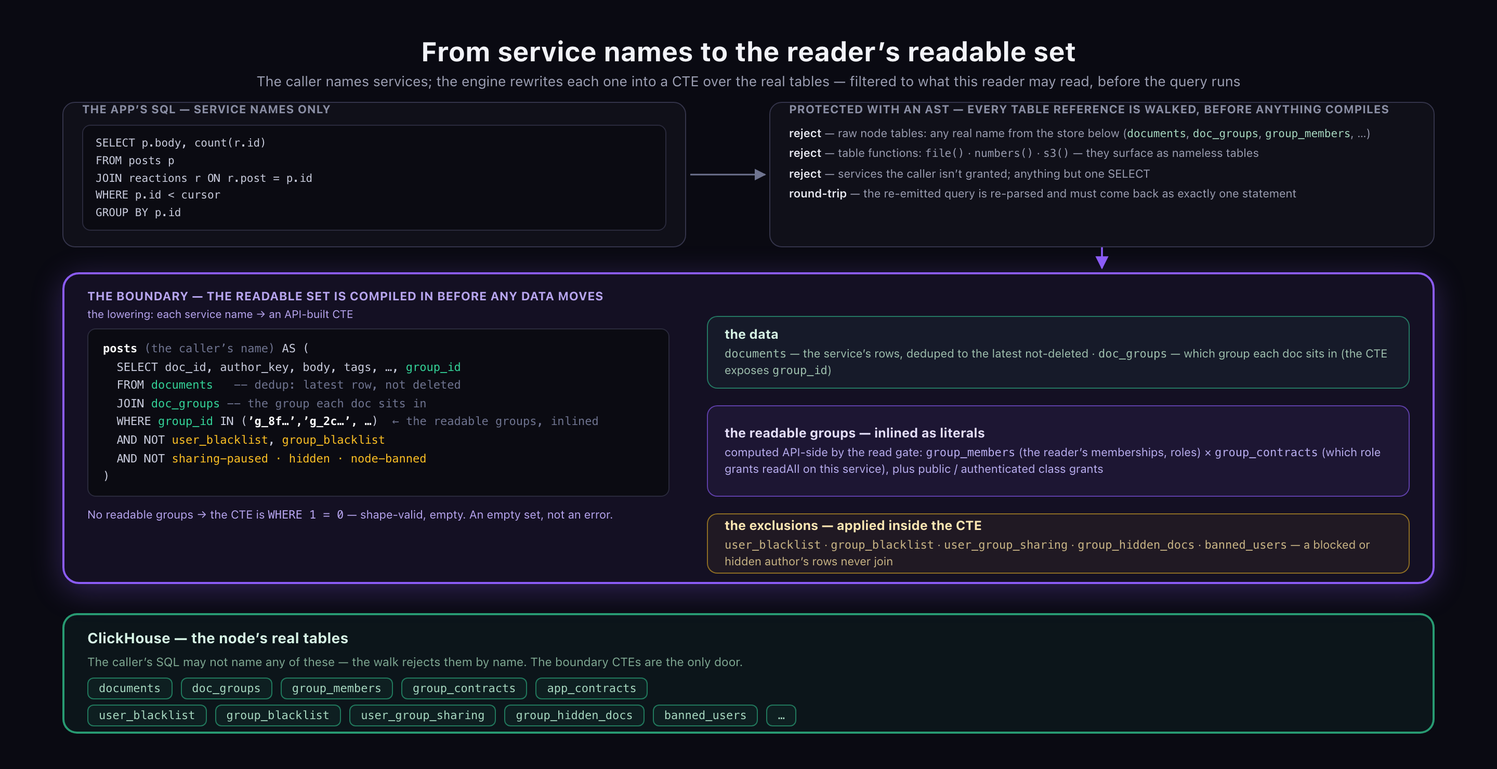
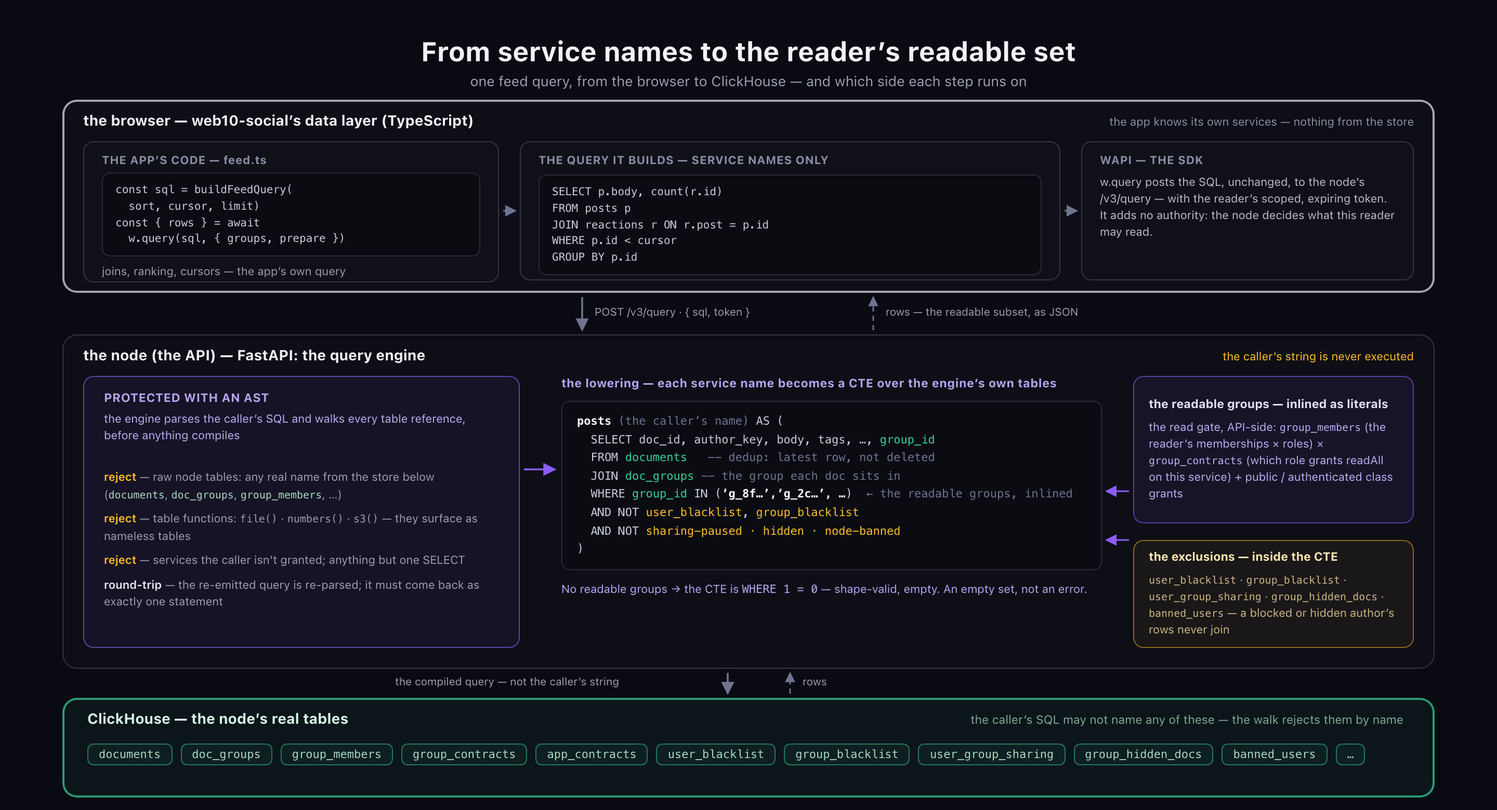
docs(research): figure B re-shot — the AST sits on the API side, the app→SDK→API chain is visible, 'THE BOUNDARY' is out (show, don't tell)

Changed region(s): [[0.0312, 0.0311, 0.9688, 0.9946], [0.9375, 0.8392, 0.9688, 0.8703]]

diff --git a/research/second-draft/figs/fig-query-engine.html b/research/second-draft/figs/fig-query-engine.html
@@ -1,13 +1,14 @@
 <!doctype html>
 <!--
-  Source for fig-query-engine.png (Figure B, shot 3: "the lowering").
-  How-it-works level of the real machine (api/app/v3/services/safe_query.py):
-  caller SQL (service names only) -> the AST walk and its real rejections ->
-  the lowering: each service name becomes an API-built boundary CTE over the
-  real ClickHouse tables (documents, doc_groups; readable group IDs inlined
-  from the read gate group_members x group_contracts; five exclusion tables)
-  -> ClickHouse, whose real table names the caller may never reference.
-  No pitch lines; the claim is carried by the paper's caption.
+  Source for fig-query-engine.png (Figure B, shot 4: "where each step runs").
+  One feed query, from the browser to ClickHouse — and which side each step
+  runs on. Accuracy note (the shot-3 miss this fixes): the AST work is
+  API-side. The app's TypeScript builds the query (feed.ts: buildFeedQuery),
+  the SDK's w.query posts it, unchanged, to POST /v3/query with the reader's
+  scoped token (sdk/src/v3.ts); the node's engine (api/app/v3/services/
+  safe_query.py — ClickHouse's own parser) does the walk, the rejections,
+  the lowering to boundary CTEs, and the round-trip. The caller's string is
+  never executed. No pitch lines; the claim is the caption's.
   Render with ./capture.mjs fig-query-engine.
 -->
 <html>
@@ -16,92 +17,114 @@
 <style>
   * { margin:0; padding:0; box-sizing:border-box; }
   html,body { background:#0a0a12; }
-  body { width:1440px; height:740px; position:relative; overflow:hidden;
+  body { width:1440px; height:780px; position:relative; overflow:hidden;
     font-family:-apple-system,"SF Pro Text","Helvetica Neue",Arial,sans-serif;
     -webkit-font-smoothing:antialiased; }
   .title { position:absolute; top:34px; width:100%; text-align:center;
     font-size:26px; font-weight:700; color:#f2f3f8; }
   .subtitle { position:absolute; top:70px; width:100%; text-align:center;
     font-size:13.5px; color:#9c9fb3; }
-  .box { position:absolute; border-radius:12px; background:#101019;
-    border:1.5px solid #34344a; padding:0 18px; }
-  .boxlabel { position:absolute; font-size:11px; font-weight:700;
+  .frame { position:absolute; border-radius:14px; background:#0e0e17; }
+  .fhead { position:absolute; font-size:14px; font-weight:700; }
+  .fanno { position:absolute; font-size:11px; }
+  .lbl { position:absolute; font-size:11px; font-weight:700;
     letter-spacing:.4px; color:#8b8fa5; }
-  .sql { font-family:"SF Mono",Menlo,Consolas,monospace; font-size:10.5px;
+  .mono { position:absolute; font-family:"SF Mono",Menlo,Consolas,monospace; font-size:10.5px;
     color:#c9ccdd; background:#0b0b12; border:1px solid #2a2a3c; border-radius:8px;
-    padding:8px 12px; line-height:1.6; white-space:pre; }
-  .check { font-size:11px; color:#9a9db1; line-height:1.4; }
+    padding:8px 12px; line-height:1.5; white-space:pre; }
+  .note { position:absolute; font-size:11px; color:#9a9db1; line-height:1.45; }
+  .check { position:absolute; font-size:11px; color:#9a9db1; line-height:1.5; }
   .check .lead { color:#e8e9f2; font-weight:600; }
-  /* violet lowering band */
-  .violet { position:absolute; left:60px; top:262px; width:1320px; height:300px;
-    border-radius:16px; background:rgba(139,92,246,.08);
-    border:2px solid #8b5cf6; box-shadow:0 6px 30px rgba(139,92,246,.30); }
-  .vlabel { position:absolute; top:278px; left:84px; font-size:11.5px;
-    font-weight:700; letter-spacing:.3px; color:#b7a5ef; }
-  .cte { position:absolute; left:84px; top:316px; width:560px; height:162px;
+  .check .amber { color:#fbbf24; font-weight:600; }
+  /* violet enforcement family */
+  .vpart { position:absolute; border-radius:10px;
+    background:rgba(139,92,246,.07); border:1.5px solid rgba(139,92,246,.65); }
+  .vlabel { position:absolute; font-size:11.5px; font-weight:700;
+    letter-spacing:.3px; color:#b7a5ef; }
+  .cte { position:absolute; width:520px;
     font-family:"SF Mono",Menlo,Consolas,monospace; font-size:11px;
     line-height:1.6; color:#c9ccdd; background:#0b0b12;
     border:1px solid #2a2a3c; border-radius:8px; padding:10px 14px;
     white-space:pre; overflow:hidden; }
   .cte .g { color:#34d399; } .cte .a { color:#fbbf24; }
   .cte .w { color:#ffffff; font-weight:600; } .cte .c { color:#6f7490; }
-  .ctenote { position:absolute; top:488px; left:84px; width:560px;
-    font-size:11px; color:#b7a5ef; line-height:1.45; }
-  .card { position:absolute; left:680px; width:676px; border-radius:10px;
-    padding:0 16px; display:flex; flex-direction:column; justify-content:center; }
-  .card .t { font-size:12.5px; font-weight:700; }
-  .card .s { font-size:11px; margin-top:4px; line-height:1.45; }
-  .card .mono { font-family:"SF Mono",Menlo,Consolas,monospace; }
-  .card.green { background:rgba(52,211,153,.05); border:1.5px solid rgba(52,211,153,.5); }
-  .card.green .t { color:#d7f5e6; } .card.green .s { color:#9fc0ae; }
+  .card { position:absolute; width:270px; border-radius:10px;
+    padding:0 14px; display:flex; flex-direction:column; justify-content:center; }
+  .card .t { font-size:11.5px; font-weight:700; line-height:1.35; }
+  .card .s { font-size:11px; margin-top:6px; line-height:1.45; }
+  .card .mono2 { font-family:"SF Mono",Menlo,Consolas,monospace; font-size:10px; }
   .card.purple { background:rgba(139,92,246,.08); border:1.5px solid rgba(139,92,246,.6); }
   .card.purple .t { color:#e6e0fb; } .card.purple .s { color:#b9aef0; }
   .card.amber { background:rgba(251,191,36,.05); border:1.5px solid rgba(251,191,36,.5); }
   .card.amber .t { color:#fde7b3; } .card.amber .s { color:#c9b585; }
   /* clickhouse strip */
-  .ch { position:absolute; left:60px; top:590px; width:1320px; height:116px;
+  .ch { position:absolute; left:60px; top:672px; width:1320px; height:96px;
     border-radius:14px; background:rgba(52,211,153,.06);
     border:2px solid rgba(52,211,153,.7); }
-  .chlabel { position:absolute; top:606px; left:84px; font-size:14px;
+  .chlabel { position:absolute; top:684px; left:84px; font-size:14px;
     font-weight:700; color:#d7f5e6; }
-  .chnote { position:absolute; top:630px; left:84px; font-size:11.5px;
-    color:#7fa892; }
-  .chrow { position:absolute; left:84px; display:flex; gap:8px; }
+  .chnote { position:absolute; top:686px; left:740px; width:610px; text-align:right;
+    font-size:11.5px; color:#7fa892; }
   .chip { font-family:"SF Mono",Menlo,Consolas,monospace; font-size:11px;
     color:#a7d8c0; background:rgba(52,211,153,.05);
     border:1px solid rgba(52,211,153,.5); border-radius:6px; padding:3px 10px; }
-  svg.abs { position:absolute; top:0; left:0; width:1440px; height:740px;
+  .wlabel { position:absolute; font-size:10.5px; color:#9a9db1; }
+  svg.abs { position:absolute; top:0; left:0; width:1440px; height:780px;
     pointer-events:none; }
 </style>
 </head>
 <body>
   <div class="title">From service names to the reader&rsquo;s readable set</div>
-  <div class="subtitle">The caller names services; the engine rewrites each one into a CTE over the real tables &mdash; filtered to what this reader may read, before the query runs</div>
+  <div class="subtitle">one feed query, from the browser to ClickHouse &mdash; and which side each step runs on</div>
 
-  <!-- tier 1: the caller's SQL + the walk -->
-  <div class="box" style="left:60px; top:98px; width:600px; height:140px;">
-    <div style="font-size:11px; font-weight:700; letter-spacing:.4px; color:#8b8fa5;">THE APP&rsquo;S SQL &mdash; SERVICE NAMES ONLY</div>
-    <div class="sql" style="margin-top:8px;">SELECT p.body, count(r.id)
+  <!-- tier 1: the browser (app code + SDK) -->
+  <div class="frame" style="left:60px; top:96px; width:1320px; height:186px; border:2px solid rgba(201,204,218,.8);"></div>
+  <div class="fhead" style="left:80px; top:108px; color:#f2f3f8;">the browser &mdash; web10-social&rsquo;s data layer (TypeScript)</div>
+  <div class="fanno" style="left:1040px; top:111px; width:320px; text-align:right; color:#8b8fa5;">the app knows its own services &mdash; nothing from the store</div>
+
+  <div style="position:absolute; left:80px; top:136px; width:400px; height:136px; border-radius:10px; background:#101019; border:1px solid #34344a;"></div>
+  <div class="lbl" style="left:98px; top:148px;">THE APP&rsquo;S CODE &mdash; feed.ts</div>
+  <div class="mono" style="left:98px; top:166px; width:364px;">const sql = buildFeedQuery(
+  sort, cursor, limit)
+const { rows } = await
+  w.query(sql, { groups, prepare })</div>
+  <div class="note" style="left:98px; top:254px; width:364px;">joins, ranking, cursors &mdash; the app&rsquo;s own query</div>
+
+  <div style="position:absolute; left:500px; top:136px; width:520px; height:134px; border-radius:10px; background:#101019; border:1px solid #34344a;"></div>
+  <div class="lbl" style="left:518px; top:148px;">THE QUERY IT BUILDS &mdash; SERVICE NAMES ONLY</div>
+  <div class="mono" style="left:518px; top:168px; width:484px;">SELECT p.body, count(r.id)
 FROM posts p
 JOIN reactions r ON r.post = p.id
 WHERE p.id &lt; cursor
 GROUP BY p.id</div>
-  </div>
-  <div class="box" style="left:740px; top:98px; width:640px; height:140px;">
-    <div style="font-size:11px; font-weight:700; letter-spacing:.4px; color:#8b8fa5;">PROTECTED WITH AN AST &mdash; EVERY TABLE REFERENCE IS WALKED, BEFORE ANYTHING COMPILES</div>
-    <div class="check" style="margin-top:9px;">
-      <div class="check" style="margin-top:4px;"><span class="lead">reject</span> &mdash; raw node tables: any real name from the store below (<span class="mono" style="font-family:'SF Mono',Menlo,monospace; font-size:10.5px; color:#a7d8c0;">documents</span>, <span class="mono" style="font-family:'SF Mono',Menlo,monospace; font-size:10.5px; color:#a7d8c0;">doc_groups</span>, <span class="mono" style="font-family:'SF Mono',Menlo,monospace; font-size:10.5px; color:#a7d8c0;">group_members</span>, &hellip;)</div>
-      <div class="check" style="margin-top:4px;"><span class="lead">reject</span> &mdash; table functions: <span style="font-family:'SF Mono',Menlo,monospace; font-size:10.5px;">file()</span> &middot; <span style="font-family:'SF Mono',Menlo,monospace; font-size:10.5px;">numbers()</span> &middot; <span style="font-family:'SF Mono',Menlo,monospace; font-size:10.5px;">s3()</span> &mdash; they surface as nameless tables</div>
-      <div class="check" style="margin-top:4px;"><span class="lead">reject</span> &mdash; services the caller isn&rsquo;t granted; anything but one SELECT</div>
-      <div class="check" style="margin-top:4px;"><span class="lead">round-trip</span> &mdash; the re-emitted query is re-parsed and must come back as exactly one statement</div>
-    </div>
+
+  <div style="position:absolute; left:1040px; top:136px; width:320px; height:134px; border-radius:10px; background:#101019; border:1px solid #34344a;"></div>
+  <div class="lbl" style="left:1058px; top:148px;">WAPI &mdash; THE SDK</div>
+  <div class="note" style="left:1058px; top:168px; width:284px; color:#b9bcc9;">w.query posts the SQL, unchanged, to the node&rsquo;s /v3/query &mdash; with the reader&rsquo;s scoped, expiring token. It adds no authority: the node decides what this reader may read.</div>
+
+  <!-- wires: browser -> node -->
+  <div class="wlabel" style="left:572px; top:294px;">POST /v3/query &middot; { sql, token }</div>
+  <div class="wlabel" style="left:852px; top:294px;">rows &mdash; the readable subset, as JSON</div>
+
+  <!-- tier 2: the node (the API) -->
+  <div class="frame" style="left:60px; top:322px; width:1320px; height:322px; border:1.5px solid #34344a;"></div>
+  <div class="fhead" style="left:80px; top:334px; color:#f2f3f8;">the node (the API) &mdash; FastAPI: the query engine</div>
+  <div class="fanno" style="left:920px; top:337px; width:440px; text-align:right; color:#fbbf24;">the caller&rsquo;s string is never executed</div>
+
+  <!-- the AST walk (violet enforcement family) -->
+  <div class="vpart" style="left:80px; top:362px; width:420px; height:262px;"></div>
+  <div class="vlabel" style="left:100px; top:376px;">PROTECTED WITH AN AST</div>
+  <div class="note" style="left:100px; top:396px; width:380px; color:#b9aef0;">the engine parses the caller&rsquo;s SQL and walks every table reference, before anything compiles</div>
+  <div class="check" style="left:100px; top:452px; width:380px;">
+    <div><span class="amber">reject</span> &mdash; raw node tables: any real name from the store below (<span class="mono2" style="font-family:'SF Mono',Menlo,monospace; font-size:10px; color:#a7d8c0;">documents</span>, <span style="font-family:'SF Mono',Menlo,monospace; font-size:10px; color:#a7d8c0;">doc_groups</span>, <span style="font-family:'SF Mono',Menlo,monospace; font-size:10px; color:#a7d8c0;">group_members</span>, &hellip;)</div>
+    <div style="margin-top:7px;"><span class="amber">reject</span> &mdash; table functions: <span style="font-family:'SF Mono',Menlo,monospace; font-size:10px;">file()</span> &middot; <span style="font-family:'SF Mono',Menlo,monospace; font-size:10px;">numbers()</span> &middot; <span style="font-family:'SF Mono',Menlo,monospace; font-size:10px;">s3()</span> &mdash; they surface as nameless tables</div>
+    <div style="margin-top:7px;"><span class="amber">reject</span> &mdash; services the caller isn&rsquo;t granted; anything but one SELECT</div>
+    <div style="margin-top:7px;"><span class="lead">round-trip</span> &mdash; the re-emitted query is re-parsed; it must come back as exactly one statement</div>
   </div>
 
-  <!-- tier 2: the lowering -->
-  <div class="violet"></div>
-  <div class="vlabel">THE BOUNDARY &mdash; THE READABLE SET IS COMPILED IN BEFORE ANY DATA MOVES</div>
-  <div style="position:absolute; top:296px; left:84px; font-size:10.5px; color:#b7a5ef;">the lowering: each service name &rarr; an API-built CTE</div>
-  <div class="cte"><span class="w">posts</span> <span class="c">(the caller&rsquo;s name)</span> AS (
+  <!-- the lowering -->
+  <div class="vlabel" style="left:540px; top:362px; width:520px;">the lowering &mdash; each service name becomes a CTE over the engine&rsquo;s own tables</div>
+  <div class="cte" style="left:540px; top:386px;"><span class="w">posts</span> <span class="c">(the caller&rsquo;s name)</span> AS (
   <span style="color:#c9ccdd;">SELECT</span> doc_id, author_key, body, tags, &hellip;, <span class="g">group_id</span>
   <span style="color:#c9ccdd;">FROM</span> <span class="g">documents</span>   <span class="c">-- dedup: latest row, not deleted</span>
   <span style="color:#c9ccdd;">JOIN</span> <span class="g">doc_groups</span> <span class="c">-- the group each doc sits in</span>
@@ -109,29 +132,24 @@ GROUP BY p.id</div>
   <span style="color:#c9ccdd;">AND NOT</span> <span class="a">user_blacklist</span><span style="color:#c9ccdd;">, </span><span class="a">group_blacklist</span>
   <span style="color:#c9ccdd;">AND NOT</span> <span class="a">sharing-paused &middot; hidden &middot; node-banned</span>
 <span style="color:#c9ccdd;">)</span></div>
-  <div class="ctenote">No readable groups &rarr; the CTE is <span style="font-family:'SF Mono',Menlo,monospace;">WHERE 1 = 0</span> &mdash; shape-valid, empty. An empty set, not an error.</div>
+  <div class="note" style="left:540px; top:560px; width:520px; color:#b7a5ef;">No readable groups &rarr; the CTE is <span style="font-family:'SF Mono',Menlo,monospace;">WHERE 1 = 0</span> &mdash; shape-valid, empty. An empty set, not an error.</div>
 
-  <div class="card green" style="top:304px; height:70px;">
-    <div class="t">the data</div>
-    <div class="s"><span class="mono">documents</span> &mdash; the service&rsquo;s rows, deduped to the latest not-deleted &middot; <span class="mono">doc_groups</span> &mdash; which group each doc sits in (the CTE exposes <span class="mono">group_id</span>)</div>
-  </div>
-  <div class="card purple" style="top:390px; height:88px;">
+  <!-- the two sources the CTE inlines -->
+  <div class="card purple" style="left:1090px; top:362px; height:142px;">
     <div class="t">the readable groups &mdash; inlined as literals</div>
-    <div class="s">computed API-side by the read gate: <span class="mono">group_members</span> (the reader&rsquo;s memberships, roles) &times; <span class="mono">group_contracts</span> (which role grants readAll on this service), plus public / authenticated class grants</div>
+    <div class="s">the read gate, API-side: <span class="mono2">group_members</span> (the reader&rsquo;s memberships &times; roles) &times; <span class="mono2">group_contracts</span> (which role grants readAll on this service) + public / authenticated class grants</div>
   </div>
-  <div class="card amber" style="top:494px; height:58px;">
-    <div class="t">the exclusions &mdash; applied inside the CTE</div>
-    <div class="s"><span class="mono">user_blacklist</span> &middot; <span class="mono">group_blacklist</span> &middot; <span class="mono">user_group_sharing</span> &middot; <span class="mono">group_hidden_docs</span> &middot; <span class="mono">banned_users</span> &mdash; a blocked or hidden author&rsquo;s rows never join</div>
+  <div class="card amber" style="left:1090px; top:520px; height:104px;">
+    <div class="t">the exclusions &mdash; inside the CTE</div>
+    <div class="s"><span class="mono2">user_blacklist</span> &middot; <span class="mono2">group_blacklist</span> &middot; <span class="mono2">user_group_sharing</span> &middot; <span class="mono2">group_hidden_docs</span> &middot; <span class="mono2">banned_users</span> &mdash; a blocked or hidden author&rsquo;s rows never join</div>
   </div>
 
   <!-- tier 3: clickhouse -->
   <div class="ch"></div>
   <div class="chlabel">ClickHouse &mdash; the node&rsquo;s real tables</div>
-  <div class="chnote">The caller&rsquo;s SQL may not name any of these &mdash; the walk rejects them by name. The boundary CTEs are the only door.</div>
-  <div class="chrow" style="top:652px;">
+  <div class="chnote">the caller&rsquo;s SQL may not name any of these &mdash; the walk rejects them by name</div>
+  <div style="position:absolute; left:84px; top:716px; display:flex; gap:8px;">
     <div class="chip">documents</div><div class="chip">doc_groups</div><div class="chip">group_members</div><div class="chip">group_contracts</div><div class="chip">app_contracts</div>
-  </div>
-  <div class="chrow" style="top:678px;">
     <div class="chip">user_blacklist</div><div class="chip">group_blacklist</div><div class="chip">user_group_sharing</div><div class="chip">group_hidden_docs</div><div class="chip">banned_users</div><div class="chip">&hellip;</div>
   </div>
 
@@ -141,12 +159,29 @@ GROUP BY p.id</div>
       <marker id="ar" viewBox="0 0 10 10" refX="9" refY="5" markerWidth="7" markerHeight="7" orient="auto-start-reverse">
         <path d="M0,0 L10,5 L0,10 z" fill="#6f7490"/>
       </marker>
+      <marker id="arup" viewBox="0 0 10 10" refX="9" refY="5" markerWidth="7" markerHeight="7" orient="auto-start-reverse">
+        <path d="M0,0 L10,5 L0,10 z" fill="#6f7490"/>
+      </marker>
       <marker id="arv" viewBox="0 0 10 10" refX="9" refY="5" markerWidth="7" markerHeight="7" orient="auto-start-reverse">
         <path d="M0,0 L10,5 L0,10 z" fill="#8b5cf6"/>
       </marker>
     </defs>
-    <line x1="664" y1="168" x2="736" y2="168" stroke="#6f7490" stroke-width="1.6" marker-end="url(#ar)"/>
-    <line x1="1060" y1="238" x2="1060" y2="258" stroke="#8b5cf6" stroke-width="1.8" marker-end="url(#arv)"/>
+    <!-- inside the browser: code -> sql -> sdk -->
+    <line x1="484" y1="203" x2="496" y2="203" stroke="#6f7490" stroke-width="1.6" marker-end="url(#ar)"/>
+    <line x1="1024" y1="203" x2="1036" y2="203" stroke="#6f7490" stroke-width="1.6" marker-end="url(#ar)"/>
+    <!-- the wire: POST /v3/query down, rows up -->
+    <line x1="560" y1="286" x2="560" y2="318" stroke="#6f7490" stroke-width="1.8" marker-end="url(#ar)"/>
+    <line x1="840" y1="318" x2="840" y2="286" stroke="#6f7490" stroke-width="1.4" stroke-dasharray="5 4" marker-end="url(#arup)"/>
+    <!-- inside the node: walk -> lowering -->
+    <line x1="504" y1="452" x2="534" y2="452" stroke="#8b5cf6" stroke-width="1.8" marker-end="url(#arv)"/>
+    <!-- the read gate + the exclusions, into the CTE -->
+    <line x1="1086" y1="473" x2="1064" y2="473" stroke="#8b5cf6" stroke-width="1.6" marker-end="url(#arv)"/>
+    <line x1="1086" y1="520" x2="1064" y2="520" stroke="#8b5cf6" stroke-width="1.6" marker-end="url(#arv)"/>
+    <!-- lowering -> clickhouse -->
+    <line x1="700" y1="648" x2="700" y2="668" stroke="#6f7490" stroke-width="1.8" marker-end="url(#ar)"/>
+    <line x1="760" y1="668" x2="760" y2="648" stroke="#6f7490" stroke-width="1.4" stroke-dasharray="5 4" marker-end="url(#arup)"/>
   </svg>
+  <div class="wlabel" style="left:380px; top:650px;">the compiled query &mdash; not the caller&rsquo;s string</div>
+  <div class="wlabel" style="left:772px; top:650px;">rows</div>
 </body>
 </html>

diff --git a/research/second-draft/kb/diagrams.md b/research/second-draft/kb/diagrams.md
@@ -10,6 +10,11 @@ why it is visually nice, and what it may not assert.
 - **Accuracy invariant:** a figure asserts only what the paper body or
   the knowledge base already asserts. A figure that adds a claim is a
   new claim that needs evidence.
+- **Placement is assertion:** which box a mechanism sits in is a claim
+  about where it runs. A mechanism drawn on the wrong side of the trust
+  boundary is a factual error, not a style issue (Figure B's first
+  shot drew the AST walk in the app tier; it runs API-side, in
+  `safe_query` — the SDK only posts `{ sql, token }`).
 - **No internal IDs** in figure text or captions (conference-facing,
   per the 4.5.4 cleanup).
 - **Referenced or it doesn't exist:** every figure has at least one
@@ -111,27 +116,35 @@ query-engine part is violet and points at Figure 4.
 ### Figure 4 — from service names to the reader's readable set (done,
 `figs/fig-query-engine.png`, §5)
 
-**What it visualizes:** the lowering, at the level of the real machine
-(`safe_query`): the caller's SQL (service names only) → the AST walk
-with its real rejections (raw node table names; `file()`/`numbers()`/
-`s3()` surfacing as nameless tables; ungranted services; exactly one
-statement, round-trip) → each service name becomes the API-built
-boundary CTE over the real ClickHouse tables — `documents` deduped to
-the latest not-deleted row, joined to `doc_groups`, the reader's
-readable group IDs inlined from the read gate (`group_members` ×
-`group_contracts`), the five exclusion tables in amber → a ClickHouse
-strip naming every real table the caller may not reach. The violet band
-carries beat 6: "the readable set is compiled in before any data
-moves."
+**What it visualizes:** one feed query, from the browser to ClickHouse
+— and which side each step runs on. The browser frame: the app's code
+(`buildFeedQuery` in feed.ts) → the query it builds (service names
+only) → wapi, which posts the SQL, unchanged, to `/v3/query` with the
+reader's scoped, expiring token — "it adds no authority: the node
+decides what this reader may read." The node frame ("the node (the
+API) — FastAPI: the query engine"): PROTECTED WITH AN AST (the walk and
+its real rejections — raw node table names; `file()`/`numbers()`/
+`s3()` as nameless tables; ungranted services; round-trip to exactly
+one statement) → the lowering: each service name becomes a CTE the
+engine builds over its own tables — `documents` deduped to the latest
+not-deleted row, joined to `doc_groups`, the reader's readable group
+IDs inlined from the read gate (`group_members` × `group_contracts` +
+class grants), the five exclusion tables in amber → a ClickHouse strip
+naming every real table the caller may not reach ("the walk rejects
+them by name").
 **Why that shape:** the plan was the two-pipeline contrast (broken
 output filter vs. boundary CTE); the operator's critique ("pitch
 figures, not how-it-works figures") moved it to the real mechanism —
 the caller's world (service names) vs. the node's world (real tables),
-the wall visible as the gap between them. The empty-vs-refuse semantics
-(the `1=0` CTE; the endpoint-level 403) belong to the caption, not the
-picture. The violet boundary is the same box as Figure 2's access check
-and Figure 3's query-engine part — one enforcement family across the
-set.
+the wall visible as the gap between them. The shot-4 re-shot (05.11.2026)
+fixed the placement: the first shot drew the AST walk in the app tier —
+but the walk, the lowering, and the round-trip all run API-side, and
+the "THE BOUNDARY" slogan band told where the mechanism shows: it is
+out, replaced by the walk/lowering labels + the amber fact "the
+caller's string is never executed". The empty-vs-refuse semantics (the
+`1=0` CTE; the endpoint-level 403) belong to the caption, not the
+picture. The violet enforcement family is the same box as Figure 2's
+access check and Figure 3's query-engine part.
 
 ### Figure 5 — interop screenshots (§6) — existing, PNG-only
 

diff --git a/knowledge-base/changelogs/CHANGELOG.md b/knowledge-base/changelogs/CHANGELOG.md
@@ -1,3 +1,6 @@
+4.10.24 || 05.11.2026
+docs(research): Figure B (fig-query-engine) re-shot — the AST sits on the API side, the app→SDK→API chain is visible, "THE BOUNDARY" is out (show, don't tell). Operator: "the ast part of the diagram is in the app sdk instead of in the api part … it isnt clear it is app code, then turned to clickhouse query, by sdk, then api … calling api the boundary is cringe, show dont tell … the query engine figure has alot of strong points." The figure now draws two sides: the browser frame (the app's code — buildFeedQuery in feed.ts → the query it builds, service names only → wapi, which adds no authority) and the node frame ("the node (the API) — FastAPI: the query engine"), with the AST walk, the lowering, the readable-groups card, and the exclusions all API-side; the wire carries POST /v3/query · { sql, token } down and rows up. The violet "THE BOUNDARY" band header is replaced by the mechanism's own labels + the amber fact "the caller's string is never executed"; the CTE skeleton and the ClickHouse strip (the strong points) are kept intact. New figure rule in kb/diagrams.md: placement is assertion — which box a mechanism sits in is a claim about where it runs. HTML + 2x PNG re-rendered and inspected. No manuscript prose changed. Next gate: the outline shots.
+
 4.10.23 || 05.11.2026
 docs(research): shot 0 beat 10 gains the node-size point; the three how-it-works figure pairs land in the repo. Operator (on the composition figure): "i think it isnt clear that these nodes in the composition could each have millions of users, that is the difference … solid simply cant do discover type stuff right? we can do stuff they cant because nodes can get big … maybe our shot 0 needs that added! i dont know if that point is made!" Beat 10 (the Solid fork) now states the capability asymmetry, not just the performance one: a web10 node pools millions of users in one shared store, so discover/trending/ranking are ordinary queries the app writes against it; Solid cannot do that composition — each user's data lives in that user's own pod, so a cross-user query must pull the whole network, and it does not terminate at scale. Shot 0 stays 12 beats; the DECISIONS entry records the new sentences + their landing (§3 / §9 / the composition caption). Committed alongside: the three approved figure pairs, HTML source + 2x PNG — `fig-app-arch` ("The web10-social application and its node": the browser box with the six data-layer modules + wapi pinching the thin generic node, ClickHouse/MinIO with their real names, a messages panel with the actual payloads; 46,285 lines / 141 files pinned), `fig-query-engine` ("From service names to the reader's readable set": the AST walk with its real rejections + the lowering to the boundary CTE over documents/doc_groups, read-gate groups inlined, five exclusions), and `fig-composition` ("Where the composition happens": three web10 nodes each pooling millions of users, pulled from separately, vs. Solid's per-user pods where discover doesn't terminate). `kb/diagrams.md` figure plan updated to the set (Figures 3 + 4 done; Figure 8 added). No manuscript prose changed. Next gate: the outline shots (the 12 beats → section mapping, presented in-thread, awaiting the pass).
 

diff --git a/knowledge-base/strategy/plan.md b/knowledge-base/strategy/plan.md
@@ -1286,6 +1286,8 @@ docs before code, per the rule at the top.
 
 ## SIGMOD 2027 Industry Track — the full paper (research/)
 
+- [✓ 4.10.24 local] **Figure B (fig-query-engine) re-shot — the AST sits on the API side; the app→SDK→API chain is visible; "THE BOUNDARY" is out** - operator: "the ast part of the diagram is in the app sdk instead of in the api part … it isnt clear it is app code, then turned to clickhouse query, by sdk, then api … calling api the boundary is cringe, show dont tell … alot of strong points." Two sides now drawn: the browser (the app's code → the query it builds → wapi adds no authority) and the node (the API): AST walk, lowering, read-gate card, exclusions — all API-side; the wire carries POST /v3/query · { sql, token } down, rows up. The violet slogan band replaced by the mechanism's own labels + "the caller's string is never executed"; the CTE skeleton + ClickHouse strip kept. New rule in kb/diagrams.md: placement is assertion. No manuscript prose changed. Next gate: the outline shots.
+
 - [✓ 4.10.23 local] **Shot 0 beat 10 gains the node-size point; the three how-it-works figure pairs land in the repo** - operator: "i think it isnt clear that these nodes in the composition could each have millions of users, that is the difference … solid simply cant do discover type stuff right? we can do stuff they cant because nodes can get big … maybe our shot 0 needs that added!" Beat 10 now states the capability asymmetry, not just the performance one: a web10 node pools millions of users in one shared store, so discover/trending/ranking are ordinary queries the app writes against it; Solid's per-user pods cannot compose across — a cross-user query must pull the whole network, and it does not terminate at scale. Shot 0 stays 12 beats; DECISIONS.md records the new sentences + landing (§3 / §9 / the composition caption). Committed: fig-app-arch + fig-query-engine + fig-composition (HTML sources + 2x PNGs) and the kb/diagrams.md figure-plan update. No manuscript prose changed. Next gate: the outline shots.
 
 - [✓ 4.10.22 local] **The abstract is the shorter version (shot 4, ~160w); the 240-word shot 3 is the intro seed** - operator: "this should go into the intro instead, and the abstract being a shorter version of it." The abstract keeps every concrete anchor (feed endpoint, the snake game, OAuth 2.0, ClickHouse at scale, email's sender check, the domain) and cuts the elaboration. Shot 3 expands into §1 (motivation + roadmap) at the intro shot. Shot 0 closes in the same entry: beat 10 corrections (Solid = data-sovereignty; not a privacy play; readable-on-the-node ≠ readable-by-all; server-side composition + scale) + the three "missing innovations" ruled out of the pitch (deletions → §7; K1000 → §8 negative finding; OLAP → beat 9). No manuscript prose changed. Next gate: the outline shots.

diff --git a/research/second-draft/DECISIONS.md b/research/second-draft/DECISIONS.md
@@ -10,6 +10,46 @@ oracles, the spine, the shot loop, the craft, the ops).
 
 ## 05.11.2026
 
+### Figure B (fig-query-engine) re-shot: the AST sits in the API, the app→SDK→API chain is visible, "THE BOUNDARY" is out
+
+- **(operator)** "the query engine figure is a little wrong though because
+  the ast part of the diagram is in the app sdk instead of in the api
+  part which is the purple box, and it isnt clear it is app code, then
+  turned to clickhouse query, by sdk, then api, and calling api the
+  boundary is cringe, show dont tell i guess! … but actually the query
+  engine figure has alot of strong points"
+- **(agent)** Three fixes; the strong points kept (the CTE skeleton, the
+  four walk rejections, the readable-groups card, the exclusions card,
+  the ClickHouse strip):
+  1. **Placement was a factual miss.** The AST walk was drawn in the top
+     tier next to the app's SQL — but the walk, the lowering, and the
+     round-trip all run API-side (`safe_query.py`, ClickHouse's own
+     parser; the SDK's `w.query` only posts `{ sql, token }` to
+     `/v3/query`). The figure now draws the two sides: the browser frame
+     (the app's code — `buildFeedQuery` in feed.ts — → the query it
+     builds, service names only → wapi, which "adds no authority: the
+     node decides what this reader may read") and the node frame ("the
+     node (the API) — FastAPI: the query engine"), with the AST box, the
+     lowering, the read-gate card, and the exclusions all inside the API
+     side.
+  2. **The chain is visible:** app code → the SQL → the SDK → the wire
+     (`POST /v3/query · { sql, token }` down; `rows — the readable
+     subset, as JSON` up) → the walk → the CTE → ClickHouse (the
+     compiled query — "not the caller's string").
+  3. **"THE BOUNDARY" is out** (show, don't tell): the violet band's
+     slogan header is replaced by the mechanism's own labels ("PROTECTED
+     WITH AN AST"; "the lowering — each service name becomes a CTE over
+     the engine's own tables") + the amber fact "the caller's string is
+     never executed". Beat 6's idea is carried by the picture, not a
+     name.
+- **(agent)** Rule added to `kb/diagrams.md` (the rules): **placement is
+  assertion** — which box a mechanism sits in is a claim about where it
+  runs; a mechanism drawn on the wrong side of the trust boundary is a
+  factual error, not a style issue. No new claims added: every label
+  traces to the real code path (feed.ts / sdk/src/v3.ts /
+  safe_query.py / endpoints/query.py). HTML + 2x PNG re-rendered and
+  inspected.
+
 ### Shot 0: beat 10 gains the node-size point — a node pools millions of users; Solid's pods cannot do discover
 
 - **(operator)** On the composition figure: "i think it isnt clear that

diff --git a/knowledge-base/strategy/parallel-execution.md b/knowledge-base/strategy/parallel-execution.md
@@ -1441,6 +1441,8 @@ starting.
 
 ### Lane: sigmod-paper (SIGMOD 2027 industry track)
 
+- [✓ 4.10.24 local] **Figure B re-shot — the AST sits on the API side; "THE BOUNDARY" slogan out** — "the ast part of the diagram is in the app sdk instead of in the api part … calling api the boundary is cringe, show dont tell." Browser frame (app code → the query it builds → wapi adds no authority) vs. node frame (AST walk, lowering, read-gate card, exclusions — all API-side); the strong points (CTE skeleton, the ClickHouse strip) kept. Placement-is-assertion rule added to kb/diagrams.md. **Next gate: the outline shots — the 12 beats → section mapping (presented in-thread, awaiting the pass), then the diagram shots, then the sections.**
+
 - [✓ 4.10.23 local] **Shot 0 beat 10 gains the node-size point; the three figure pairs commit** — "these nodes in the composition could each have millions of users, that is the difference … solid simply cant do discover type stuff … because nodes can get big … maybe our shot 0 needs that added!" Beat 10 states the capability asymmetry: a node pools millions of users in one shared store → discover/trending/ranking are ordinary app queries; Solid's per-user pods can't compose across — a cross-user query pulls the whole network, doesn't terminate at scale. Shot 0 stays 12 beats. The approved how-it-works figure pairs land in the repo (fig-app-arch, fig-query-engine, fig-composition — HTML + 2x PNG); kb/diagrams.md figure plan updated. **Next gate: the outline shots — the 12 beats → section mapping (presented in-thread, awaiting the pass), then the diagram shots, then the sections.**
 
 - [✓ 4.10.22 local] **The abstract is the shorter version (shot 4, ~160w); shot 3 (240w) is the intro seed** — "this should go into the intro instead, and the abstract being a shorter version of it." The abstract keeps the concrete anchors, cuts the elaboration. Shot 0 closes here (beat 10 corrections; the three "missing innovations" ruled out: deletions → §7, K1000 → §8, OLAP → beat 9). **Next gate: the outline shots — the 12 beats → section mapping (presented in-thread, awaiting the pass), then the diagram shots, then the sections.**
